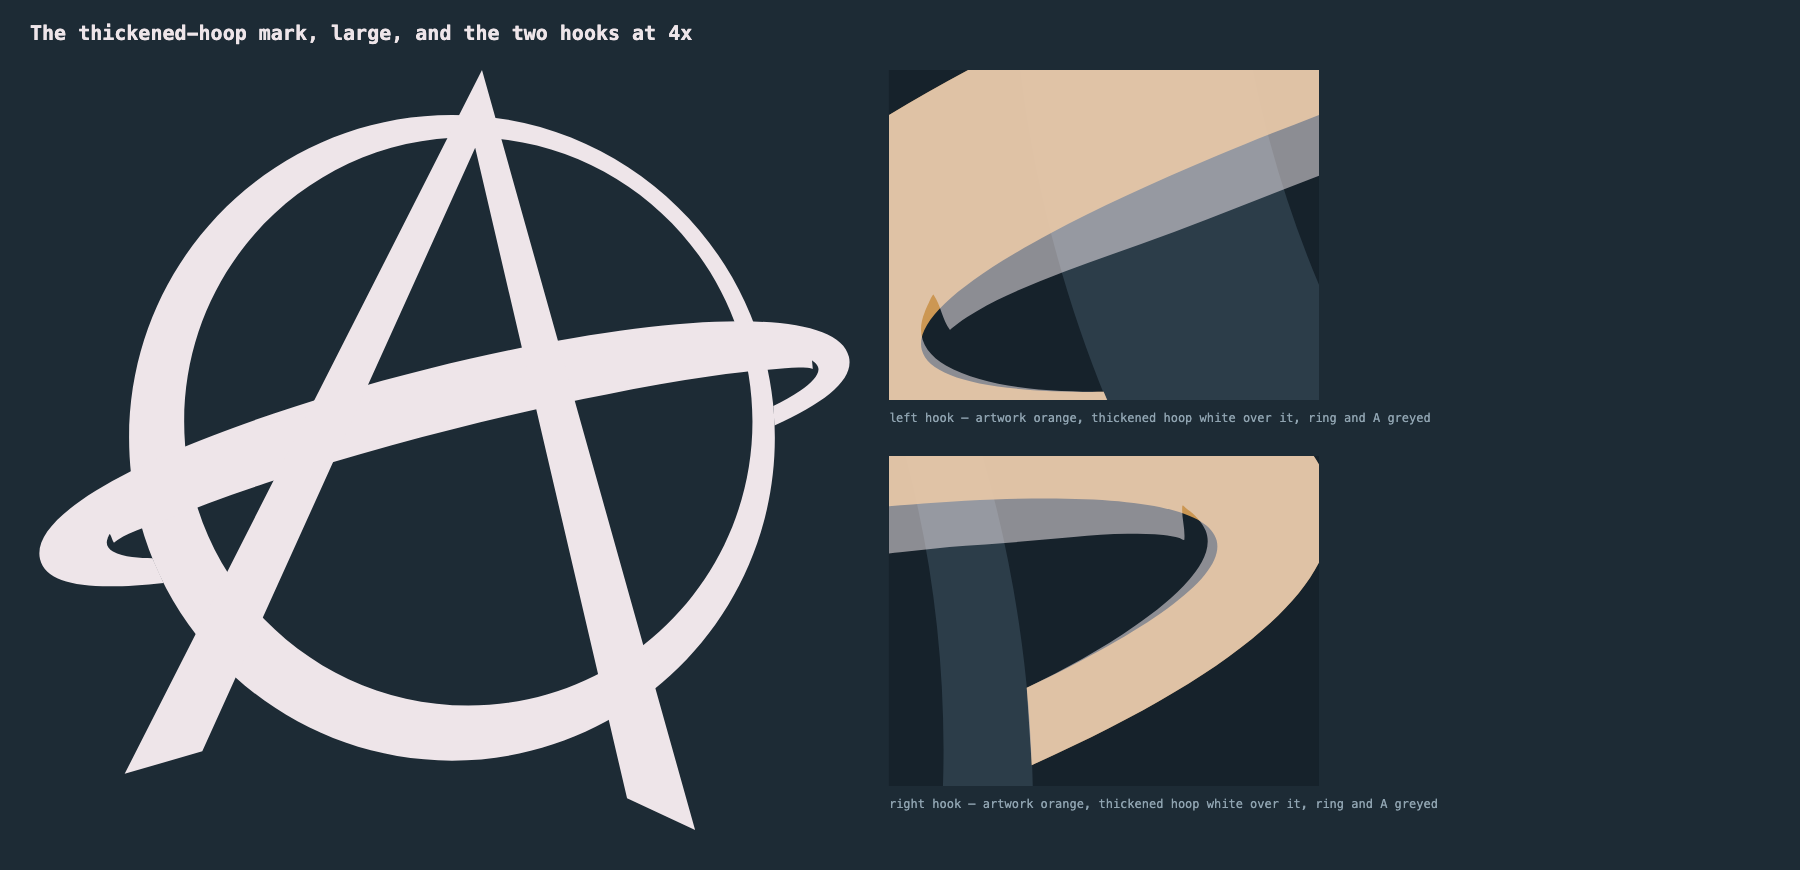
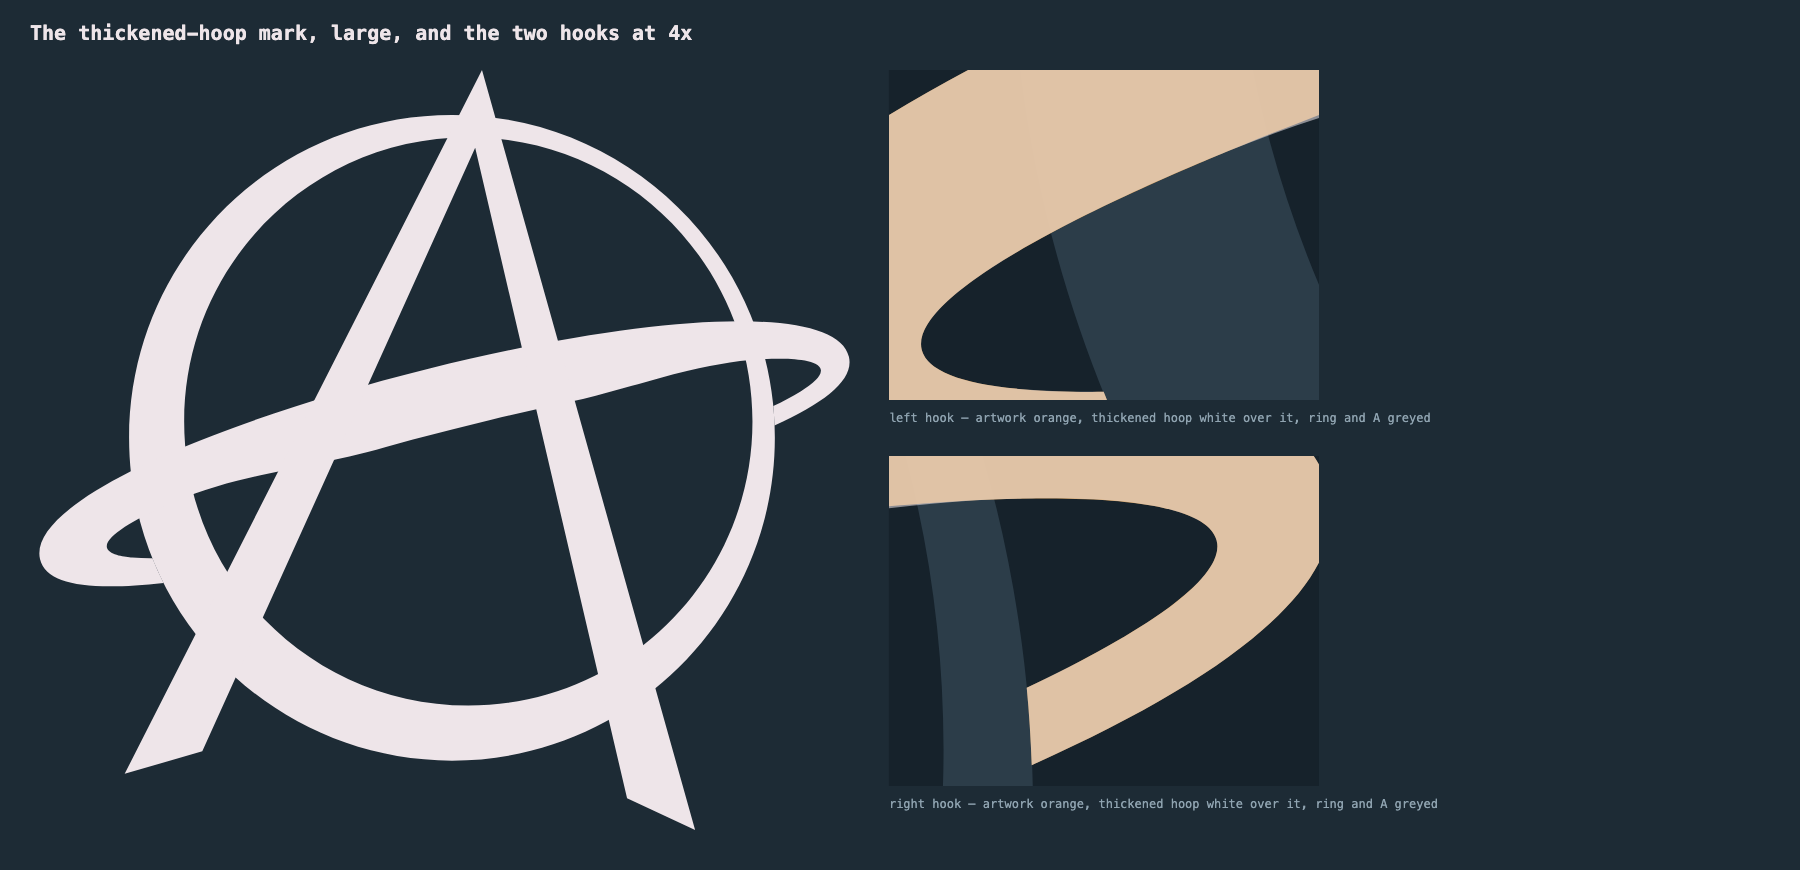
fix(font): the hoop was losing ink at both hooks, and it was my reference edge
Two bugs, one visible symptom -- the corners jutting out of the curls.

First, the push was measured against the WHOLE outer boundary, hooks included.
On the left the hook's outer curl wraps back under the band and won the
nearest-point search, so those samples were pushed toward the rim instead of
away from it and the band came out thinner exactly where it should have been
thickest.  The reference is the main rim alone.

Second, and this is what showed as a corner: the gain was ramped THROUGH each
hook's curl rather than held flat across it.  The push is "away from the main
rim by (k-1) times the distance to it", and at a hook that distance is not the
band -- 14.6 units where the band is 5 -- so even a tenth of the gain moved the
edge half a unit in a direction with nothing to do with the local stroke, and
cut a sliver off the inside of each curl.  Ink lost, not gained.

So the gain is now held at zero across both hooks entirely and ramped up on the
main run, over the third of it nearest each hand-over, smoothstep so there is no
corner at either end.  Both hooks are byte for byte the artwork, faces included
-- those two segments are kept as drawn now rather than redrawn as chords, which
they can be because nothing at the ends moves any more.

measure/evidence/hoop-diff.png is the check that would have caught both: the
artwork filled orange with the derived hoop over it in green, so ink LOST reads
[…]

diff --git a/font/measure/hoop_derived.py b/font/measure/hoop_derived.py
@@ -91,34 +91,52 @@ def derived_hoop(nseg=28):
     cubics with a fixed piece count, and the two flat faces are redrawn to the ends that moved.
     """
     items = BAR['items']
-    outer = _flatten([items[j] for j in (17, 0, 1, 2, 3, 4, 5, 6)])
+    # The MAIN rim only, not the hooks' outer curls.  Pushing each inner sample away from its
+    # nearest point on the whole outer boundary sounds right and is not: on the left the hook's
+    # outer curl wraps back UNDER the band and wins the nearest-point search, so those samples were
+    # pushed toward the rim instead of away from it and the band came out thinner where it should
+    # have been thickest.  The main rim is the edge the band is measured from everywhere it matters,
+    # and at the hooks the gain is ramped to nothing anyway.
+    outer = _flatten([items[j] for j in (1, 2, 3)])
     inner = _flatten([items[j] for j in INNER_RUN])
 
-    # How far along the inner run each hook hands over to the main rim.  The thickening is ramped
-    # to ZERO at the two tips and full across the middle, because a hook's EYE -- the sliver of
-    # background its curl encloses -- is only two units of the mark's 100 wide, and thickening the
-    # band there by 30% shuts it.  The eye is the whole reason the hook reads as a curl rather than
-    # as a blob, so the hooks keep the band they were drawn with and the free run takes all of it.
+    # Where each hook's inner curl hands over to the main rim, measured along the inner run.
+    #
+    # The gain is held at ZERO for the whole of both curls and ramped up on the MAIN RUN, over the
+    # third of it nearest each hand-over.  Two reasons, and the first one is not the obvious one.
+    #
+    # A hook encloses an eye about two units of the mark's 100 wide against a band of five, so 30%
+    # of the band shuts it, and the eye is the whole reason a hook reads as a curl rather than a
+    # blob.  That is why the hooks keep the band they were drawn with.
+    #
+    # But the ramp has to be flat across the whole curl, not merely zero at the tip.  The push is
+    # "away from the main rim by (k-1) times the distance to it", and at a hook that distance is not
+    # the band -- it is 14.6 units where the band is 5 -- so even a tenth of the gain there moves the
+    # edge half a unit in a direction that has nothing to do with the local stroke.  Ramping through
+    # the curl cost a sliver of the artwork at both tips: ink LOST, which is what showed as a corner
+    # jutting out of the curl.
     L_END = sum(_seglen(items[j]) for j in range(8, 11))        # end of hook L's inner curl
     R_START = sum(_seglen(items[j]) for j in range(8, 14))      # start of hook R's inner curl
     TOTAL = sum(_seglen(items[j]) for j in INNER_RUN)
+    BLEND = (R_START - L_END) / 3.0
 
     def ramp(s):
-        if s <= 0 or s >= TOTAL: return 0.0
-        t = min(s / L_END, (TOTAL - s) / (TOTAL - R_START), 1.0)
-        return t * t * (3 - 2 * t)                              # smoothstep, so there is no corner
+        t = min((s - L_END) / BLEND, (R_START - s) / BLEND, 1.0)
+        if t <= 0: return 0.0
+        return t * t * (3 - 2 * t)                              # smoothstep: no corner at either end
 
     def push(p, w):
         q = min(outer, key=lambda o: (o[0]-p[0])**2 + (o[1]-p[1])**2)
         d = math.hypot(p[0]-q[0], p[1]-q[1])
-        if d < 1e-9: return p, 0.0
+        if d < 1e-9 or w <= 0.0: return p, d
         g = w * (K - 1)
         return (p[0] + (p[0]-q[0])/d * g * d, p[1] + (p[1]-q[1])/d * g * d), d
 
     moved, bands, s = [], [], 0.0
     for i, p in enumerate(inner):
         if i: s += math.dist(inner[i-1], p)
-        m, d = push(p, ramp(s)); moved.append(m); bands.append(d)
+        m, d = push(p, ramp(s)); moved.append(m)
+        if L_END <= s <= R_START: bands.append(d)
 
     tg = [unit(sub(moved[min(i+1, len(moved)-1)], moved[max(i-1, 0)])) for i in range(len(moved))]
     segs, err = fit_cubics(moved, tg, nseg=nseg)
@@ -127,9 +145,11 @@ def derived_hoop(nseg=28):
     for j in (17, 0, 1, 2, 3, 4, 5, 6):
         it = items[j]
         k.curve_to(tuple(it[2]), tuple(it[3]), tuple(it[4])) if it[0] == 'c' else k.line_to(tuple(it[2]))
-    k.line_to(moved[0])                                  # hook L's face, redrawn to the new inner end
+    f = items[7]                                         # hook L's face, exactly as drawn: the gain
+    k.curve_to(tuple(f[2]), tuple(f[3]), tuple(f[4]))    # is zero at the ends so nothing has moved
     for sg in segs: k.curve_to(*sg)
-    k.line_to(tuple(items[17][1]))                       # hook R's face, likewise
+    f = items[16]                                        # hook R's face, likewise
+    k.curve_to(tuple(f[2]), tuple(f[3]), tuple(f[4]))
     return k.ccw(), dict(k=K, fit_err=err, band_min=min(bands), band_max=max(bands), nseg=nseg)
 
 
